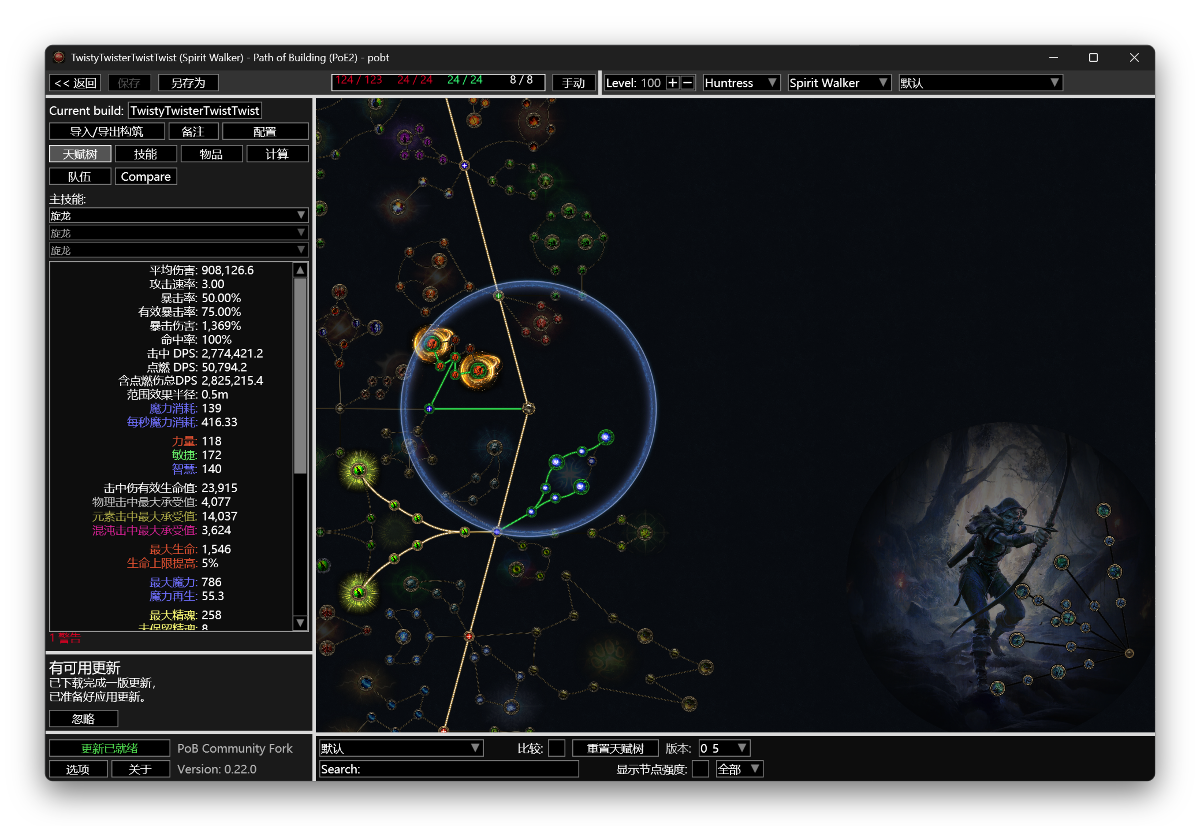
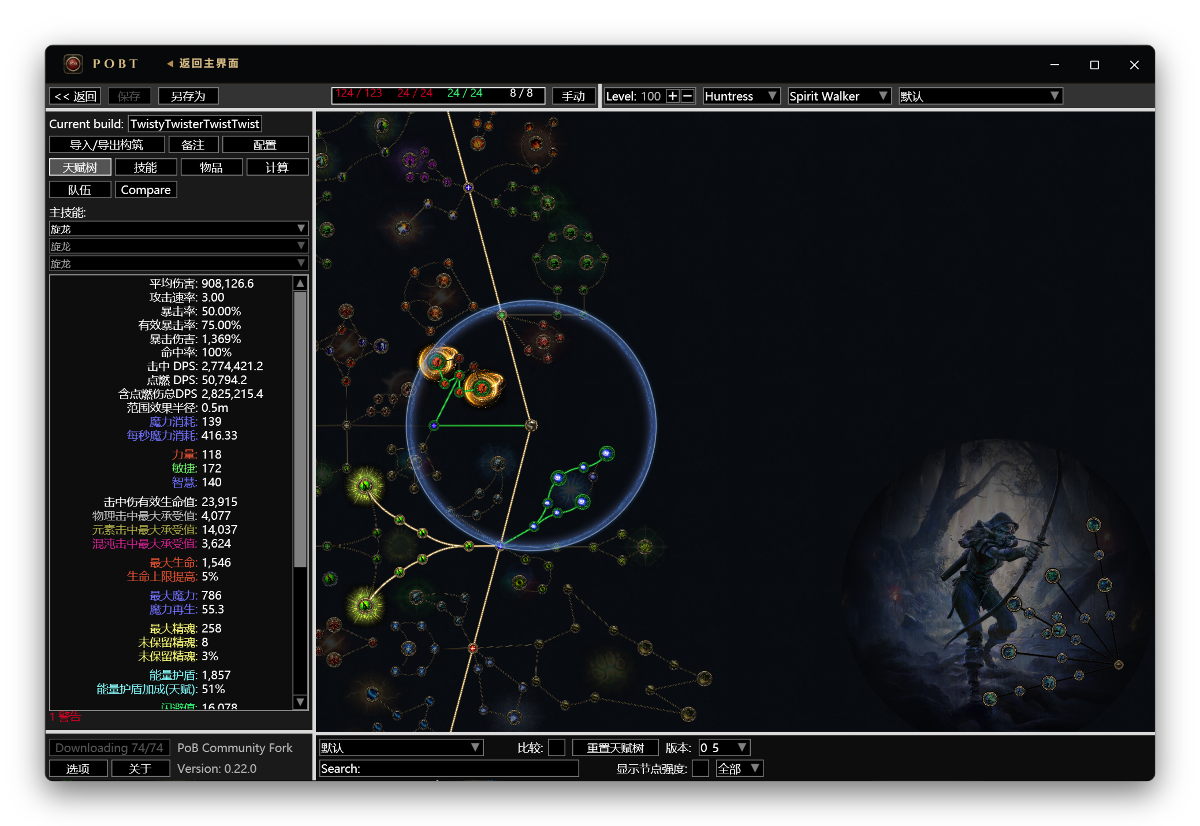
Screenshots: Path of Exile 2 with the app's own title bar, in the READMEs too

diff --git a/README.md b/README.md
@@ -10,8 +10,9 @@
 <p align="center"><img src="docs/screenshot.png" alt="The POBT launcher" width="800"></p>
 
 <p align="center">
-  <img src="docs/screenshot-tree.png" alt="The passive tree, translated" width="49%">
-  <img src="docs/screenshot-pob.png" alt="The configuration, translated" width="49%">
+  <img src="docs/screenshot-tree.png" alt="The passive tree, translated" width="32%">
+  <img src="docs/screenshot-pob.png" alt="The configuration, translated" width="32%">
+  <img src="docs/screenshot-pob2.png" alt="Path of Building for Path of Exile 2, translated" width="32%">
 </p>
 
 POBT runs the [Path of Building Community](https://pathofbuilding.community/) you already have — for Path of Exile

diff --git a/README.zh-CN.md b/README.zh-CN.md
@@ -10,8 +10,9 @@
 <p align="center"><img src="docs/screenshot.png" alt="POBT 启动界面" width="800"></p>
 
 <p align="center">
-  <img src="docs/screenshot-tree.png" alt="翻译后的天赋树" width="49%">
-  <img src="docs/screenshot-pob.png" alt="翻译后的配置页" width="49%">
+  <img src="docs/screenshot-tree.png" alt="翻译后的天赋树" width="32%">
+  <img src="docs/screenshot-pob.png" alt="翻译后的配置页" width="32%">
+  <img src="docs/screenshot-pob2.png" alt="翻译后的流放之路 2 Path of Building" width="32%">
 </p>
 
 POBT 直接运行你电脑上已有的 [Path of Building Community](https://pathofbuilding.community/)（流放之路 1 和 2），
